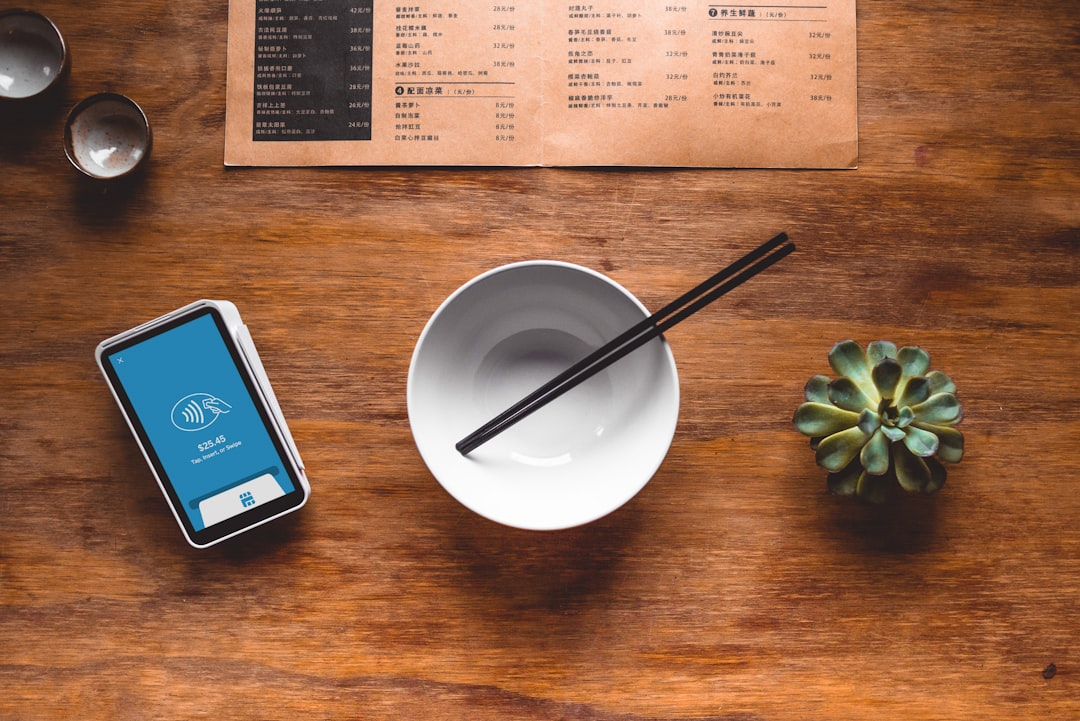
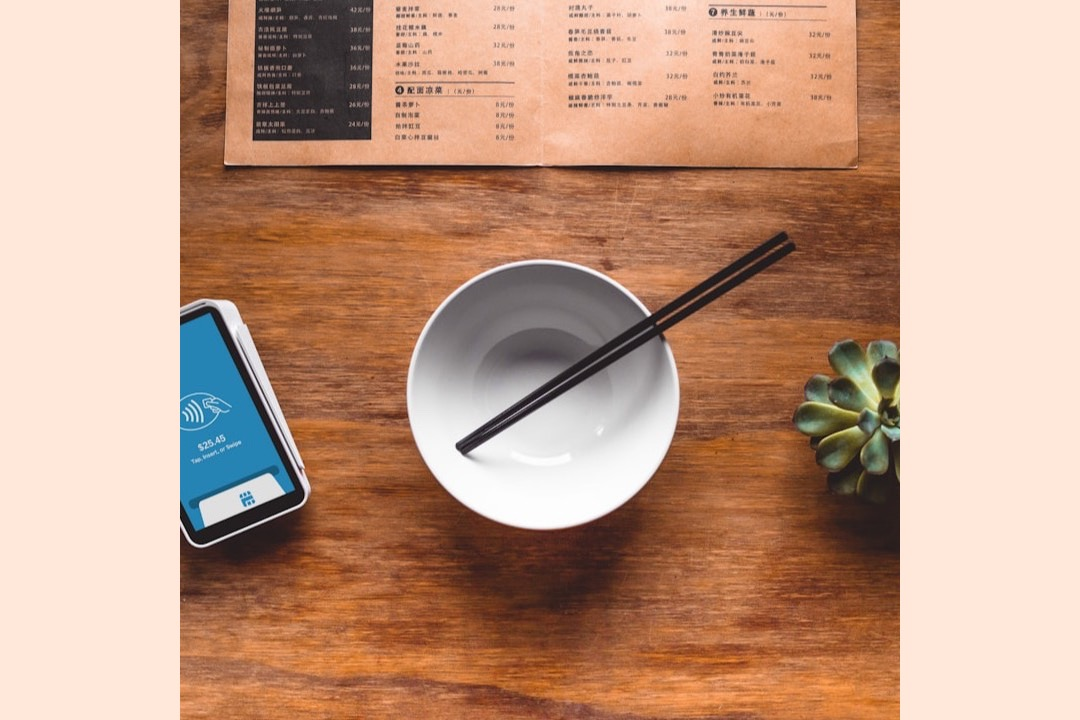
Fix: 다음 코스 추천 사진 표시

diff --git a/src/features/room/ActiveRoomScreen.tsx b/src/features/room/ActiveRoomScreen.tsx
@@ -347,9 +347,11 @@ export function ActiveRoomScreen() {
                   onClick={openRecommendation}
                   className="flex h-[118px] w-full items-center rounded-card border border-border bg-accentBg p-3.5 text-left"
                 >
-                  <div className="grid h-[58px] w-[58px] shrink-0 place-items-center rounded-full bg-white">
-                    <ReceiptText aria-hidden="true" size={28} color={colors.accent} />
-                  </div>
+                  <img
+                    src={place.thumbnailUrl}
+                    alt=""
+                    className="h-[58px] w-[58px] shrink-0 rounded-compact object-cover"
+                  />
                   <div className="w-[13px]" />
                   <div className="min-w-0 flex-1">
                     <p className="text-[11px] font-black text-accent">
